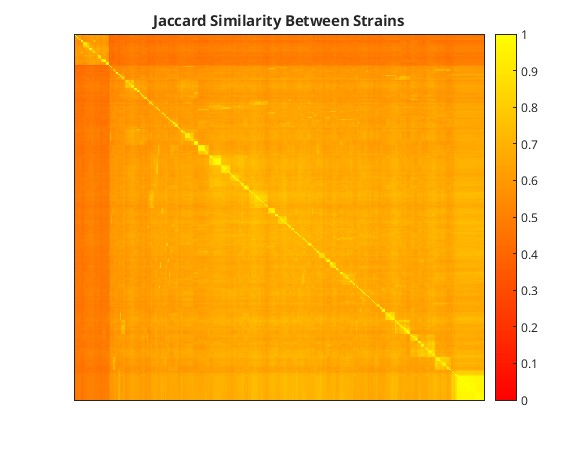
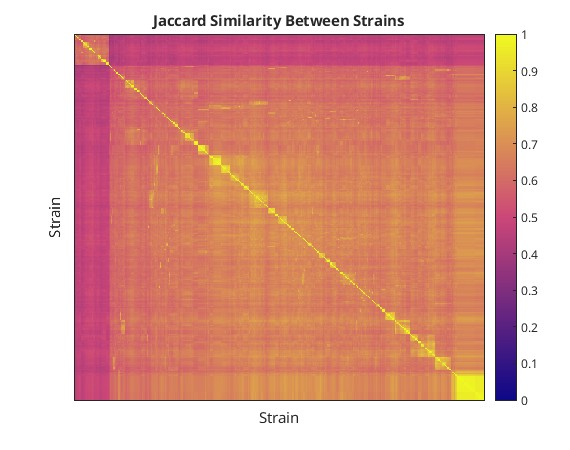
Add files via upload

diff --git a/Diversity/diversity_figs.m b/Diversity/diversity_figs.m
@@ -101,12 +101,12 @@ load strain_list.mat
 
 x=tsne(1*gene_strain_mat','Perplexity',5);
 
-C=flip(plasma(3));
-C=C(1:2,:);
+C=flip(plasma(11));
 
-scatter(x(1:344,1),x(1:344,2),30,C(1,:),'filled')
+
+scatter(x(1:344,1),x(1:344,2),30,C(9,:),'filled')
 hold on
-scatter(x(345:end,1),x(345:end,2),30,C(2,:),'filled')
+scatter(x(345:end,1),x(345:end,2),30,C(3,:),'filled')
 
 title('tSNE of Gene Presence')
 xlabel('Dimension One (Unitless)')
@@ -120,8 +120,8 @@ clc
 clearvars
 close all
 load gene_strain_mat.mat
-gene_strain_mat=gene_strain_mat(:,1:344);
-d=1-squareform(pdist(1*gene_strain_mat','jaccard'));
+% gene_strain_mat=gene_strain_mat(:,1:344);
+d=(1-squareform(pdist(1*gene_strain_mat','jaccard')));
 c=clustergram(d);
 idx=cellfun(@str2num,c.ColumnLabels);
 idy=cellfun(@str2num,c.RowLabels);
@@ -133,4 +133,5 @@ Ax.XDisplayLabels = nan(size(Ax.XDisplayData));
 Ax.YDisplayLabels = nan(size(Ax.YDisplayData));
 title('Jaccard Similarity Between Strains')
 
-
+xlabel('Strain')
+ylabel('Strain')

diff --git a/Diversity/pan_model_figs.m b/Diversity/pan_model_figs.m
@@ -139,12 +139,11 @@ load strain_list.mat
 
 x=tsne(1*rxn_strain_matrix','Perplexity',5);
 
-C=flip(plasma(3));
-C=C(1:2,:);
+C=flip(plasma(11));
 
-scatter(x(1:344,1),x(1:344,2),30,C(1,:),'filled')
+scatter(x(1:344,1),x(1:344,2),30,C(9,:),'filled')
 hold on
-scatter(x(345:end,1),x(345:end,2),30,C(2,:),'filled')
+scatter(x(345:end,1),x(345:end,2),30,C(3,:),'filled')
 
 title('tSNE of Reaction Presence')
 xlabel('Dimension One (Unitless)')
